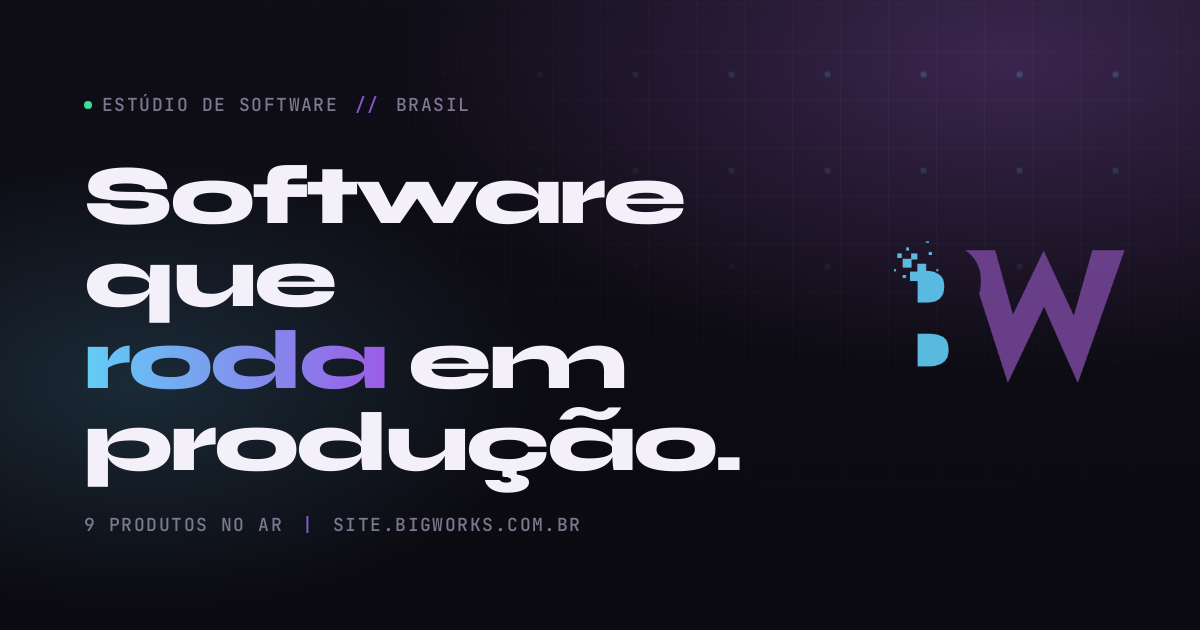
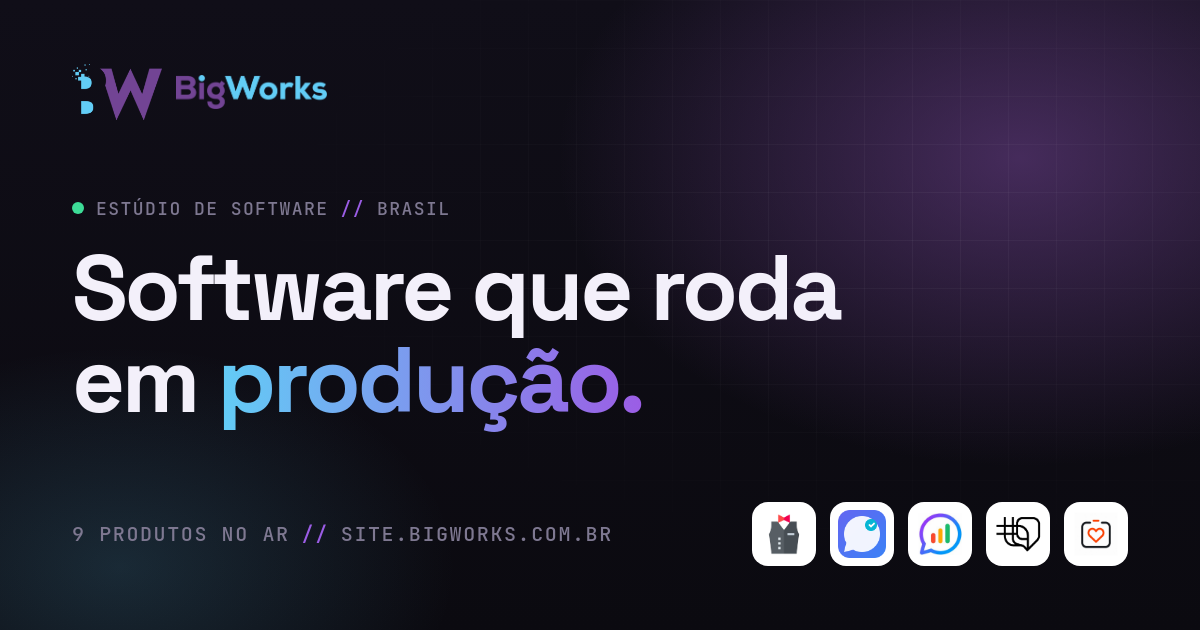
feat(seo): imagem de compartilhamento no padrão novo (#14)
Imagem de compartilhamento no padrão novo, destaque em produção.

diff --git a/assets/og/og.html b/assets/og/og.html
@@ -1,0 +1,41 @@
+<!doctype html>
+<!-- Fonte da imagem de compartilhamento (assets/brand/og.png, 1200x630).
+     Regerar: ver README, seção "Imagem de compartilhamento". -->
+<html lang="pt-BR"><head><meta charset="utf-8">
+<link href="https://fonts.googleapis.com/css2?family=Space+Grotesk:wght@700&family=JetBrains+Mono:wght@500&display=swap" rel="stylesheet">
+<style>
+  :root { --bg:#0b0a10; --bg-2:#100e18; --ink:#f3f0fa; --ink-3:#7e7891; --cyan:#62cdf6; --purple-bright:#9b5de5; --live:#3ddc97; --line:rgba(255,255,255,.09); }
+  * { margin:0; box-sizing:border-box; }
+  body { width:1200px; height:630px; overflow:hidden; background:var(--bg); color:var(--ink); font-family:"Space Grotesk",sans-serif; position:relative; }
+  .field { position:absolute; inset:0;
+    background: radial-gradient(55% 70% at 85% 25%, rgba(114,68,148,.55), transparent 70%),
+                radial-gradient(40% 50% at 10% 90%, rgba(98,205,246,.16), transparent 70%),
+                linear-gradient(180deg,var(--bg-2),var(--bg)); }
+  .field::before { content:""; position:absolute; inset:0;
+    background-image: linear-gradient(var(--line) 1px,transparent 1px), linear-gradient(90deg,var(--line) 1px,transparent 1px);
+    background-size:48px 48px; opacity:.5;
+    -webkit-mask-image: radial-gradient(70% 70% at 75% 35%, #000, transparent 80%); }
+  .wrap { position:relative; height:100%; padding:64px 72px; display:flex; flex-direction:column; justify-content:space-between; }
+  .brand { display:flex; align-items:center; gap:14px; }
+  .brand .mark { height:56px; } .brand .word { height:34px; }
+  .labs { font-family:"JetBrains Mono",monospace; font-size:18px; letter-spacing:.14em; text-transform:uppercase; color:var(--cyan);
+    padding:7px 14px; border:1px solid rgba(255,255,255,.18); border-radius:999px; }
+  h1 { font-size:92px; line-height:1; letter-spacing:-.035em; max-width:900px; }
+  .hl { background:linear-gradient(90deg,var(--cyan),var(--purple-bright)); -webkit-background-clip:text; color:transparent; }
+  .foot { display:flex; align-items:center; justify-content:space-between; }
+  .t3 { font-family:"JetBrains Mono",monospace; font-size:20px; letter-spacing:.08em; text-transform:uppercase; color:var(--ink-3); display:flex; align-items:center; gap:12px; }
+  .dot { width:12px; height:12px; border-radius:50%; background:var(--live); }
+  .sep { color:var(--purple-bright); }
+  .apps { display:flex; gap:14px; }
+  .apps img { width:64px; height:64px; padding:8px; border-radius:16px; background:#fff; object-fit:contain; }
+  .eyebrow { margin-bottom:22px; font-size:18px; }
+</style></head>
+<body><div class="field"></div><div class="wrap">
+  <div class="brand"><img class="mark" src="../brand/bigworks-mark.png" alt=""><img class="word" src="../brand/bigworks-wordmark.png" alt="BigWorks"></div>
+  <div><p class="t3 eyebrow"><span class="dot"></span>Estúdio de software <span class="sep">//</span> Brasil</p>
+  <h1>Software que roda<br>em <span class="hl">produção.</span></h1></div>
+  <div class="foot">
+    <span class="t3">9 produtos no ar <span class="sep">//</span> site.bigworks.com.br</span>
+    <div class="apps"><img src="../logos/meu-garcom.png" alt=""><img src="../logos/bot-bigworks.png" alt=""><img src="../logos/avalie-ai-icon.png" alt=""><img src="../logos/prompt-bi.png" alt=""><img src="../logos/minha-foto.png" alt=""></div>
+  </div>
+</div></body></html>

diff --git a/index.html b/index.html
@@ -15,7 +15,7 @@
   <meta property="og:title" content="BigWorks - Software que roda em produção">
   <meta property="og:description" content="TI e desenvolvimento de software. SaaS multi-tenant com IA onde faz sentido.">
   <meta property="og:url" content="https://site.bigworks.com.br/">
-  <meta property="og:image" content="https://site.bigworks.com.br/assets/brand/og.png">
+  <meta property="og:image" content="https://site.bigworks.com.br/assets/brand/og.png?v=2">
   <meta name="twitter:card" content="summary_large_image">
 
   <link rel="preconnect" href="https://fonts.googleapis.com">

diff --git a/README.md b/README.md
@@ -78,3 +78,12 @@ para a Vercel; hoje o DNS aponta para a Stage.
   Stage; `vercel.json` fica só como fallback).
 - **2026-10:** nginx na porta 3000 (contrato com o Traefik da Stage) e
   rewrites de `/logos` e `/brand` para `/assets`.
+
+## Imagem de compartilhamento
+
+`assets/brand/og.png` (1200x630) é a prévia que WhatsApp, LinkedIn e afins
+mostram ao compartilhar o link. A fonte é `assets/og/og.html`, no mesmo padrão
+da imagem do BigWorks Labs; texto ou produtos novos pedem regerar a imagem
+renderizando esse HTML em 1200x630 (Chromium headless em container, por exemplo
+`zenika/alpine-chrome:with-puppeteer`). Ao trocar a imagem, mude o `?v=` da URL
+em `og:image` no `index.html` para o WhatsApp não reaproveitar a prévia antiga.
